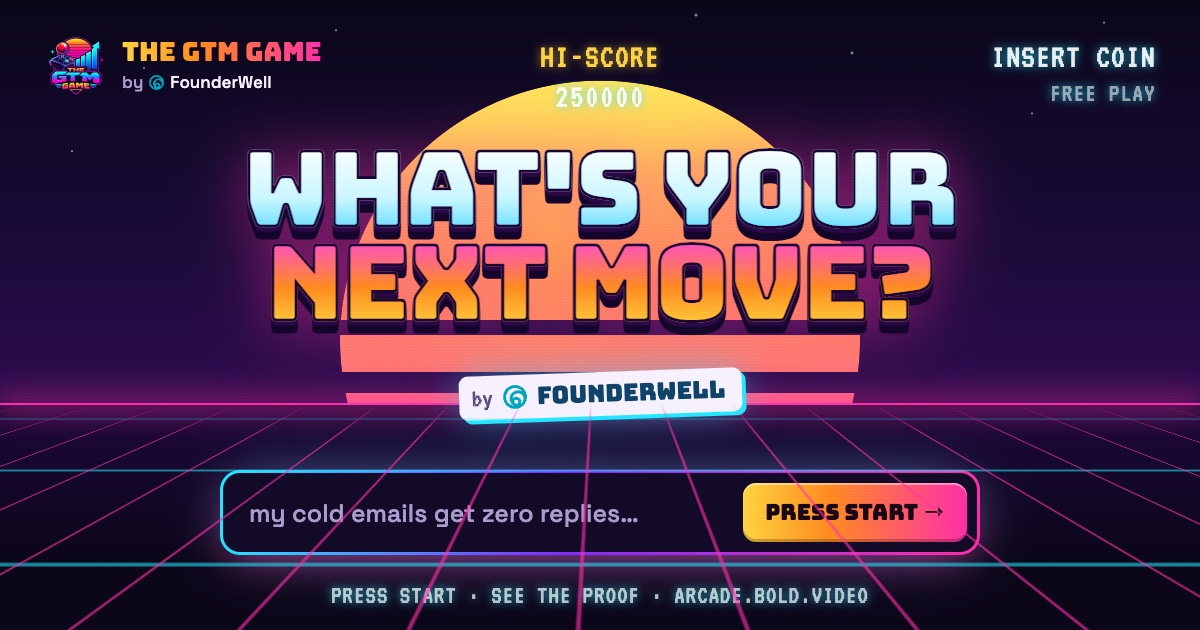
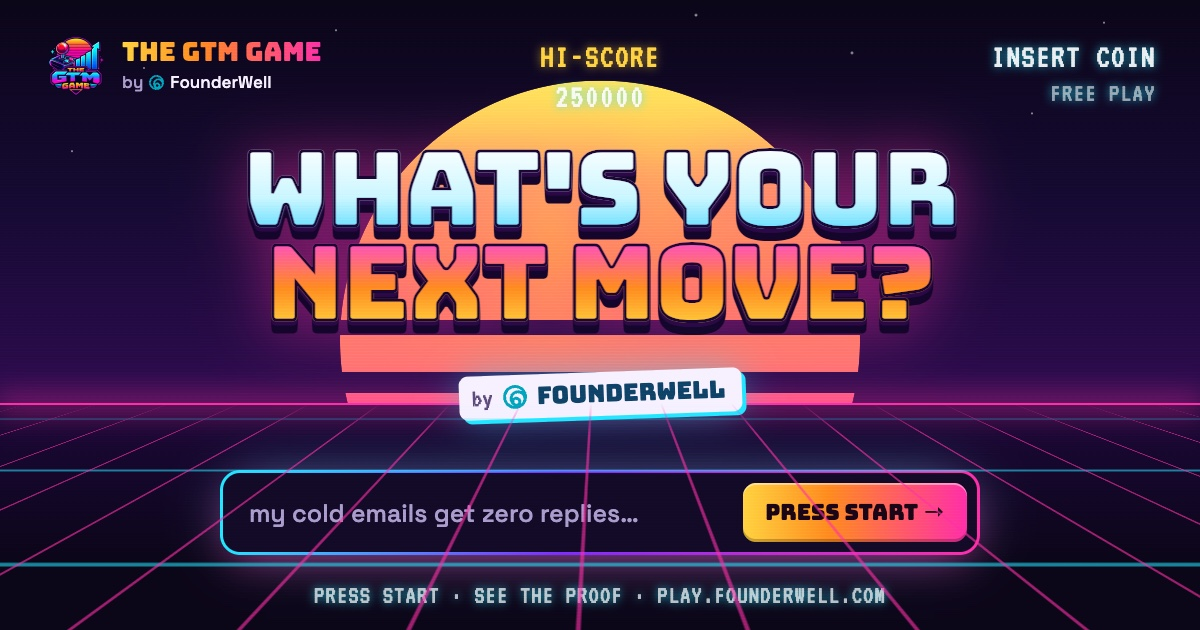
feat(gtmgym): move to play.founderwell.com

Changed region(s): [[0.2467, 0.9349, 0.74, 0.9651]]

diff --git a/lib/gym-meta.ts b/lib/gym-meta.ts
@@ -10,13 +10,13 @@ import type { Metadata } from "next";
 export const GYM_SITE_NAME = "The GTM Game";
 /** The public host printed on share cards and the strategy guide (not the
  *  request host, so previews and localhost never leak onto a card). */
-export const GYM_PUBLIC_HOST = "arcade.bold.video";
+export const GYM_PUBLIC_HOST = "play.founderwell.com";
 export const GYM_BASE_URL = process.env.NEXT_PUBLIC_BASE_URL || `https://${GYM_PUBLIC_HOST}`;
 export const GYM_DEFAULT_TITLE = "The GTM Game — by FounderWell";
 export const GYM_DEFAULT_DESCRIPTION =
   "What's your next move? Ask the game master anything about going to market — positioning, outbound, demos, pricing — and get a game plan with proof: the exact minute of FounderWell training that backs it up.";
 // Bump ?v= when the card changes; crawlers cache by URL
-export const GYM_HOME_IMAGE = "/gym/og-home.jpg?v=3";
+export const GYM_HOME_IMAGE = "/gym/og-home.jpg?v=4";
 
 interface GymMetaInput {
   /** Page title (the layout template appends " · The GTM Game") */

diff --git a/design/gtm-gym/og/card.html b/design/gtm-gym/og/card.html
@@ -93,7 +93,7 @@
     <div style="position:absolute; left:0; right:0; top:470px; display:flex; justify-content:center;">
       <div class="bar"><div class="in"><span class="ph">my cold emails get zero replies…</span><span class="btn">PRESS START →</span></div></div>
     </div>
-    <div class="osd" style="bottom:22px; left:0; right:0; text-align:center; font-size:26px; color:rgba(255,255,255,.7)">PRESS START · SEE THE PROOF · ARCADE.BOLD.VIDEO</div>
+    <div class="osd" style="bottom:22px; left:0; right:0; text-align:center; font-size:26px; color:rgba(255,255,255,.7)">PRESS START · SEE THE PROOF · PLAY.FOUNDERWELL.COM</div>
   </div>
 </div>
 <script>
